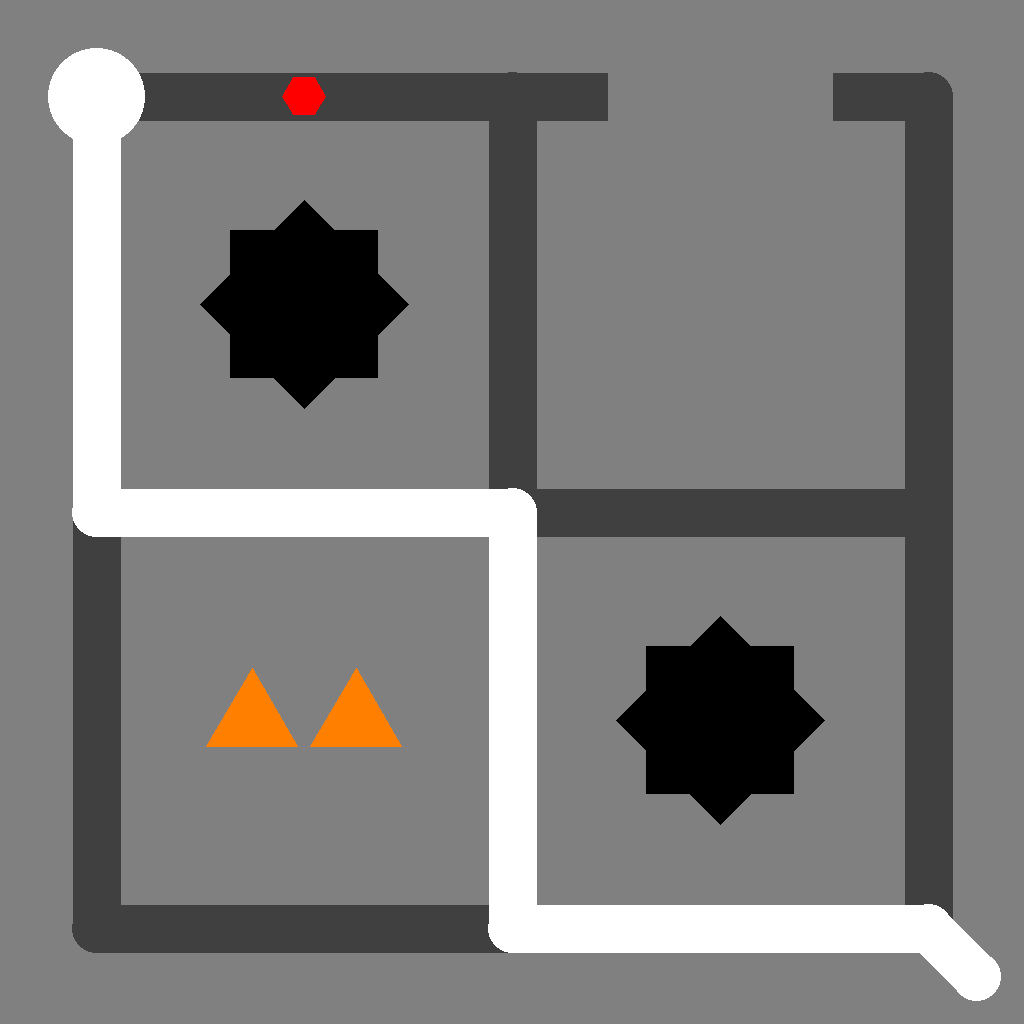
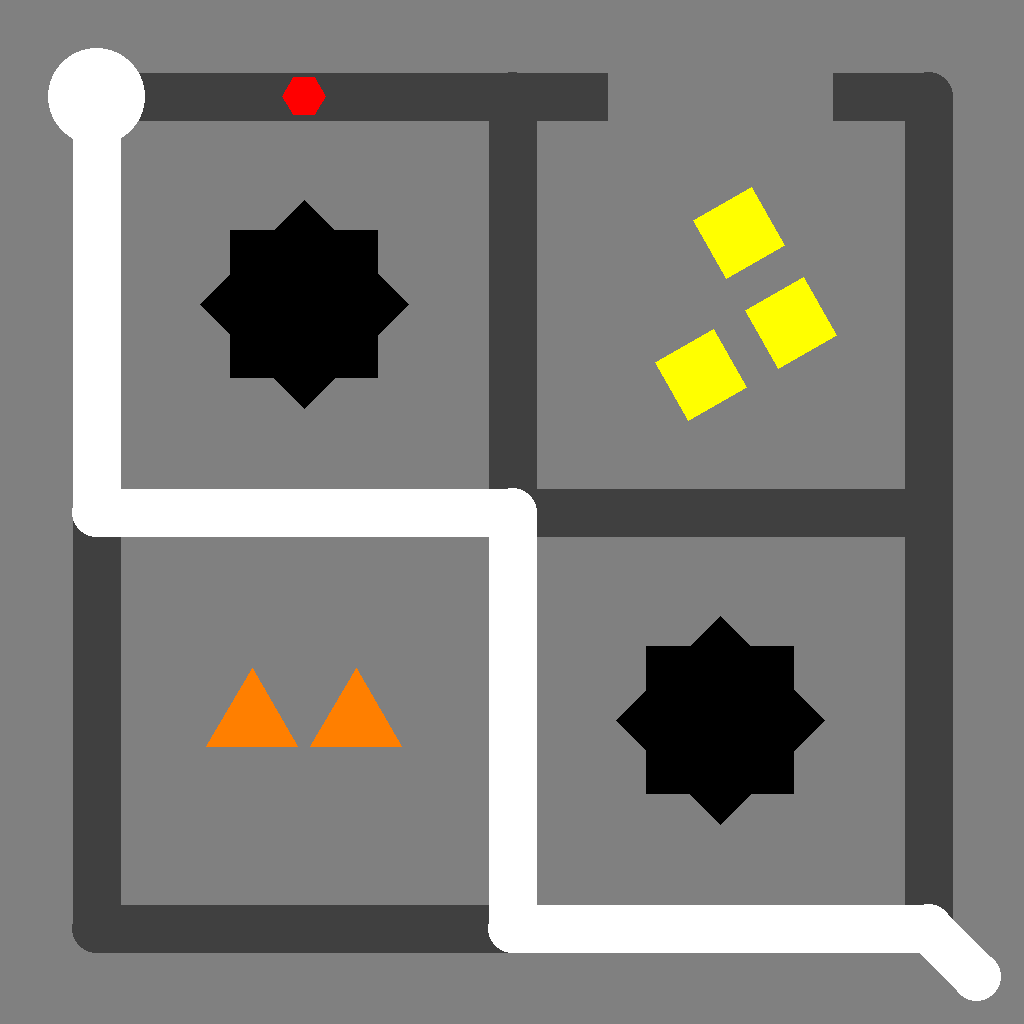
Add files via upload

Changed region(s): [[0.625, 0.1875, 0.8125, 0.4062]]

diff --git a/PYTHON/render.py b/PYTHON/render.py
@@ -10,6 +10,7 @@ from PIL import Image, ImageDraw
 
 
 # Diameter always means the distance across in the cardinal directions.
+# If there is an angle then the diameter is rotated around the same angle
 
 def generateHexagon(pos, diameter):
 	list = []
@@ -51,6 +52,35 @@ def generateStar(pos, diameter):
 		yp = (pos[1] + diameter * math.sqrt(0.125) * dy[i % 4])
 		list[1].append((xp, yp))
 
+	return list
+
+def generateSquare(pos, diameter, angle):
+	list = []
+	for i in range(4):
+		theta = math.pi * (0.25 + (i / 2)) + angle
+		xp = pos[0] + (diameter * 0.5) * math.cos(theta)
+		yp = pos[1] + (diameter * 0.5) * math.sin(theta)
+		list.append((xp, yp))
+	return list
+
+def generateDrude(pos, element, block_spacing, angle):
+	element.normalize()
+	list = []
+	if not isinstance(element, BlockGroup):
+		return list
+	
+	bb = element.boundingbox
+	s = math.sin(angle)
+	c = math.cos(angle)
+	
+	for block in element.pairs:
+		xp = (block[0] - (bb[0] - 1) / 2) * block_spacing
+		yp = (block[1] - (bb[1] - 1) / 2) * block_spacing
+
+		xpos = pos[0] + xp * c - yp * s
+		ypos = pos[1] + xp * s + yp * c
+		list.append(generateSquare((xpos, ypos), block_spacing * 0.9, angle))
+	
 	return list
 
 # Right now bg, line, path are solid colors. Filter is a solid color that dictates the light filter.
@@ -173,7 +203,12 @@ def render(output, puzzle, width = 1024, height = 1024, margin = 96, thickness =
 
 			if (isinstance(element, BlockGroup)):
 				angle = 0 if element.oriented else -1 * math.pi / 6
-				# TODO
+				dimension = max(element.boundingbox[0], element.boundingbox[1])
+
+				shape = generateDrude((xpos, ypos), element, grid_spacing / dimension, angle)
+				for s in shape:
+					draw.polygon(s, fill = colorize(puzzle, (i, j)))
+
 
 
 			# Draw the path

diff --git a/PYTHON/main.py b/PYTHON/main.py
@@ -6,7 +6,7 @@ import util
 
 from render import render
 
-thegroup = BlockGroup(False, False, {(0, 0), (1, 0), (0, 1)})
+thegroup = BlockGroup(False, False, {(0, 0), (-1, 0), (0, -1)})
 
 board = [[Endpoint(True), Dot(), Object(), Object(), Object()], [Object(), Star(Color.BLACK), Object(), thegroup, Object()], [Object(), Object(), Object(), Object(), Object()], [Object(), Triangle(2), Object(), Star(Color.BLACK), Object()], [Object(), Object(), Object(), Object(), Endpoint(False)]]
 
